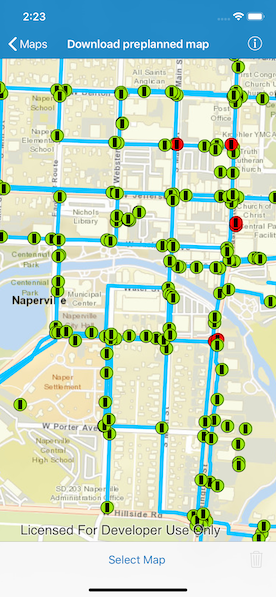
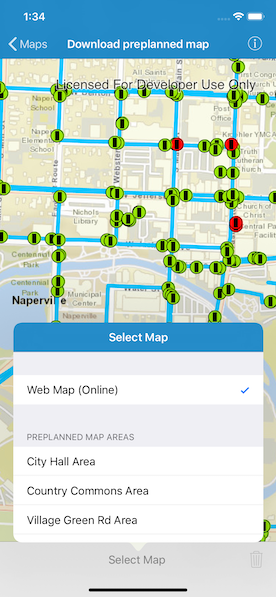
Improved documentation based on PR feedback

diff --git a/arcgis-ios-sdk-samples/Maps/Download preplanned map/README.md b/arcgis-ios-sdk-samples/Maps/Download preplanned map/README.md
@@ -1,4 +1,5 @@
 # Download preplanned map
+
 Take a map offline using a preplanned map area.
 
 ![](image1.png)
@@ -9,7 +10,7 @@ When a map is taken offline, a package containing basemap tiles, feature data, a
 
 ## How to use the sample
 
-Select a map area to take offline, then use the button to take it offline. Click 'Delete offline areas' to remove any downloaded map areas.
+Select a preplanned map area by tapping the 'Select Map' bar button item & selecting one of the showing available areas. Tapping a cell initiates a download, and shows download progress in the interim. Once downloaded, the preplanned map is displayed in the map view. If a preplanned map is reselected later, the locally cached data is loaded immediately.
 
 ## How it works
 
